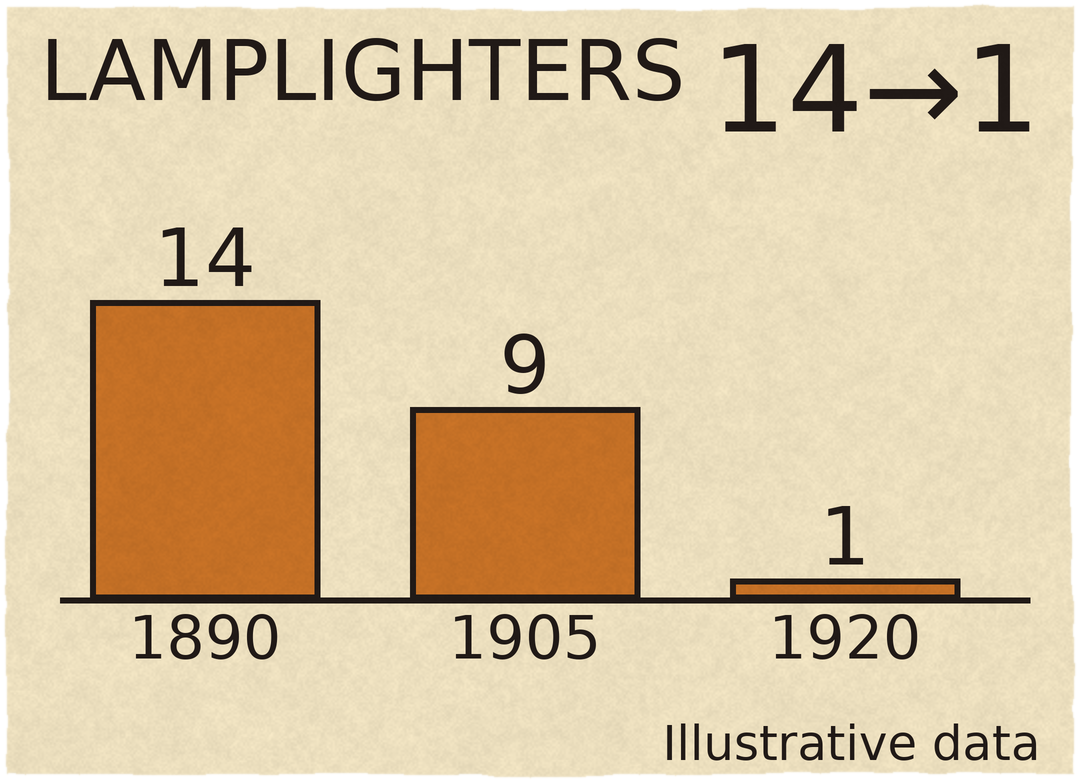
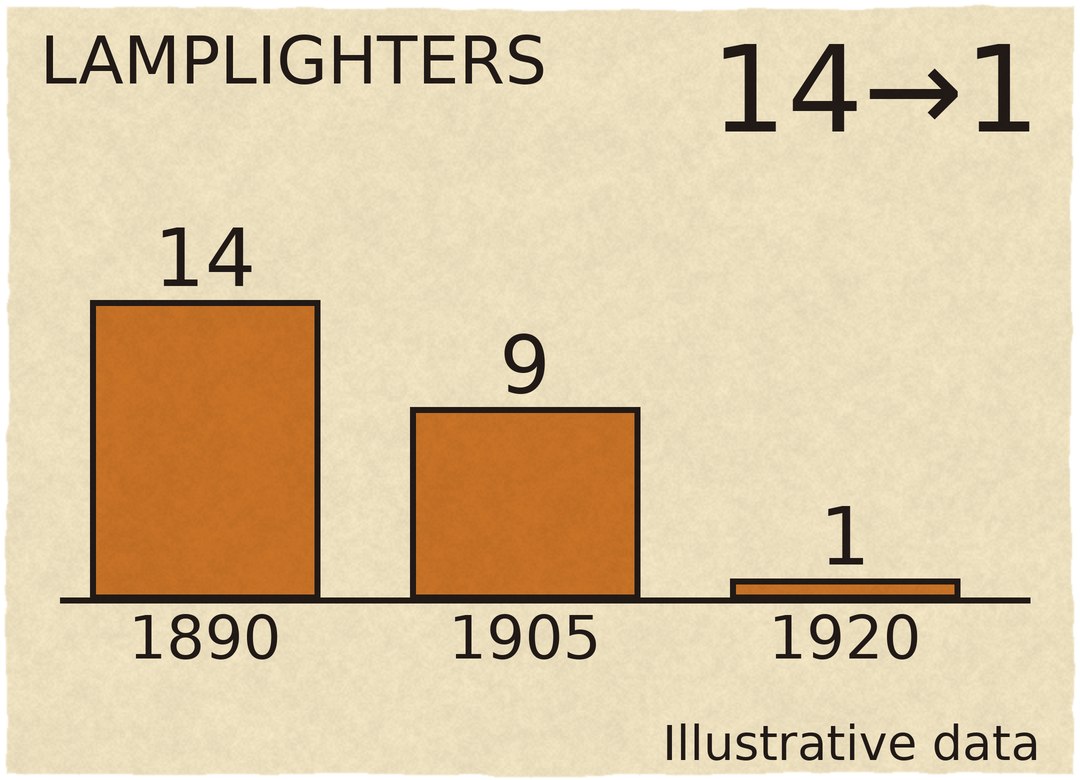
M2.0 (a): tấm biểu đồ v3 tiêu đề 66 px (không đè 14→1)
Claude-Session: https://claude.ai/code/session_013vfSagBSEu3FHp4au7vwuU

Changed region(s): [[0.0306, 0.0308, 0.6417, 0.1538]]

diff --git a/design/m3/thu-phong-cach/data_frame.py b/design/m3/thu-phong-cach/data_frame.py
@@ -207,9 +207,9 @@ def panel_map_v2(seed=11, tsize=84):
     text(d, (46 * K, 124 * K), 'Illustrative data', 44 * K, INK)
     im = im.resize((W, H), Image.LANCZOS); im = paperize(im, seed, k=0.05, fib=0.03); im.putalpha(deckle(W, H, seed + 5)); return im
 
-def panel_chart_v2(seed=23):
+def panel_chart_v2(seed=23, tsize=84):
     W, H, K = 1080, 780, 2; im = Image.new('RGB', (W * K, H * K), CREAM); d = ImageDraw.Draw(im)
-    text(d, (40 * K, 22 * K), 'LAMPLIGHTERS', 84 * K, INK)
+    text(d, (40 * K, 22 * K), 'LAMPLIGHTERS', tsize * K, INK)
     text(d, (W * K - 40 * K, 20 * K), '14\u21921', 120 * K, INK, 'ra')
     YR = [(1890, 14), (1905, 9), (1920, 1)]; x0, y0, bw, gap, top = 90 * K, 600 * K, 230 * K, 90 * K, 230 * K
     d.line([(60 * K, y0), (W * K - 50 * K, y0)], fill=INK, width=6 * K)
@@ -221,7 +221,7 @@ def panel_chart_v2(seed=23):
     im = im.resize((W, H), Image.LANCZOS); im = paperize(im, seed, k=0.05, fib=0.03); im.putalpha(deckle(W, H, seed + 5)); return im
 
 def panels_v3():   # M2.0: tiêu đề bản đồ 100 px; tấm biểu đồ giữ như v2
-    panel_map_v2(tsize=100).save(f'{HERE}/data/panel_map_v3.png'); panel_chart_v2().save(f'{HERE}/data/panel_chart_v3.png'); print('ghi tấm v3')
+    panel_map_v2(tsize=100).save(f'{HERE}/data/panel_map_v3.png'); panel_chart_v2(tsize=66).save(f'{HERE}/data/panel_chart_v3.png'); print('ghi tấm v3')
 
 def panels_v2():
     panel_map_v2().save(f'{HERE}/data/panel_map_v2.png'); panel_chart_v2().save(f'{HERE}/data/panel_chart_v2.png'); print('ghi tấm v2')
